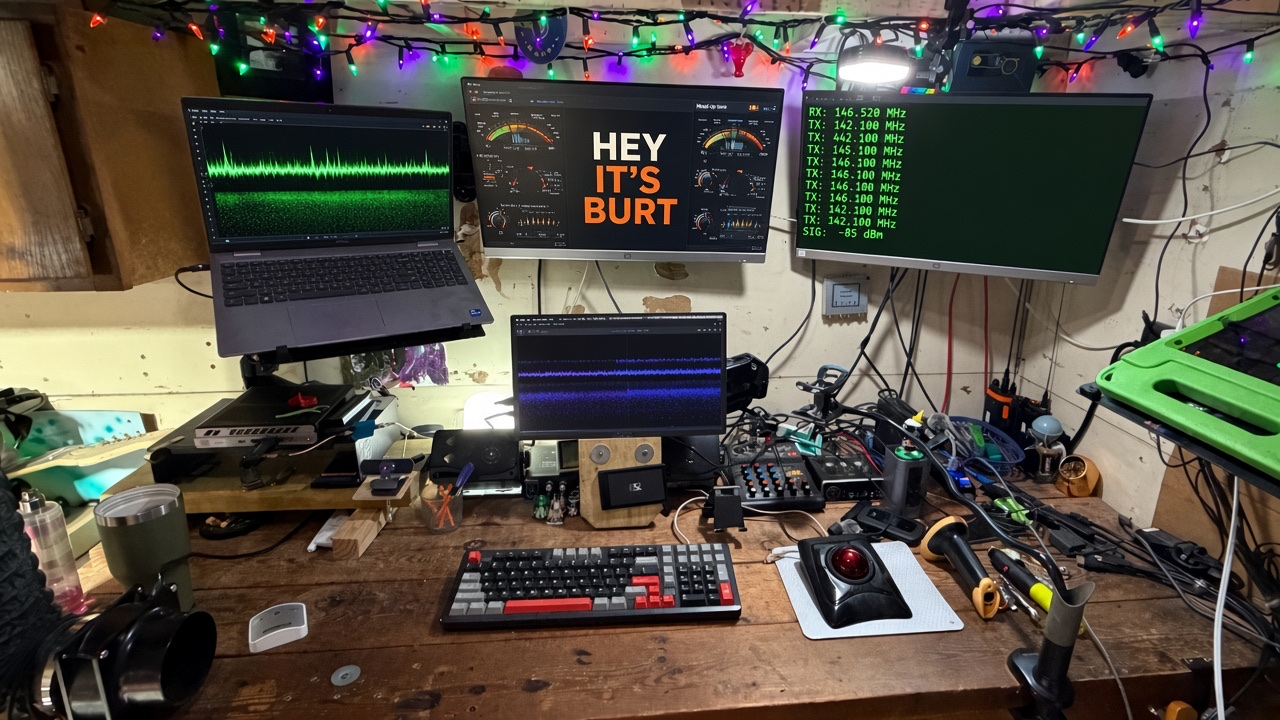
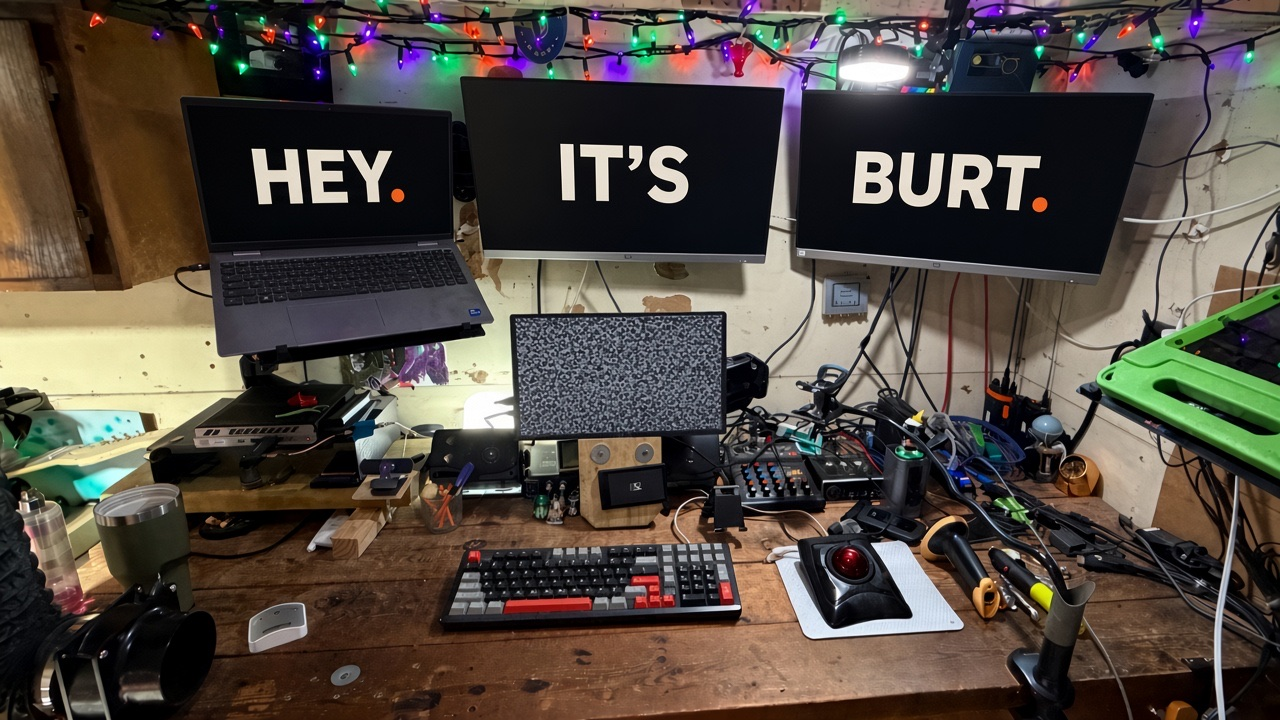
Retune the lab photo: ident lockup on three screens, static on the fourth.
Keep the garage desk, but stop showing workstation UIs in the About shot.

diff --git a/index.html b/index.html
@@ -194,7 +194,7 @@
         </header>
 
         <figure class="lab">
-          <img src="images/lab.jpg" width="1280" height="720" alt="The garage lab: a wooden workbench with radios, a mechanical keyboard, and a wall of monitors under Christmas lights.">
+          <img src="images/lab.jpg" width="1280" height="720" alt="The garage lab: three upper monitors on black reading HEY. IT'S BURT., a lower monitor of television static, radios, and a wooden workbench under Christmas lights.">
           <figcaption class="mono">Garage lab · DFW listening post</figcaption>
         </figure>
 
